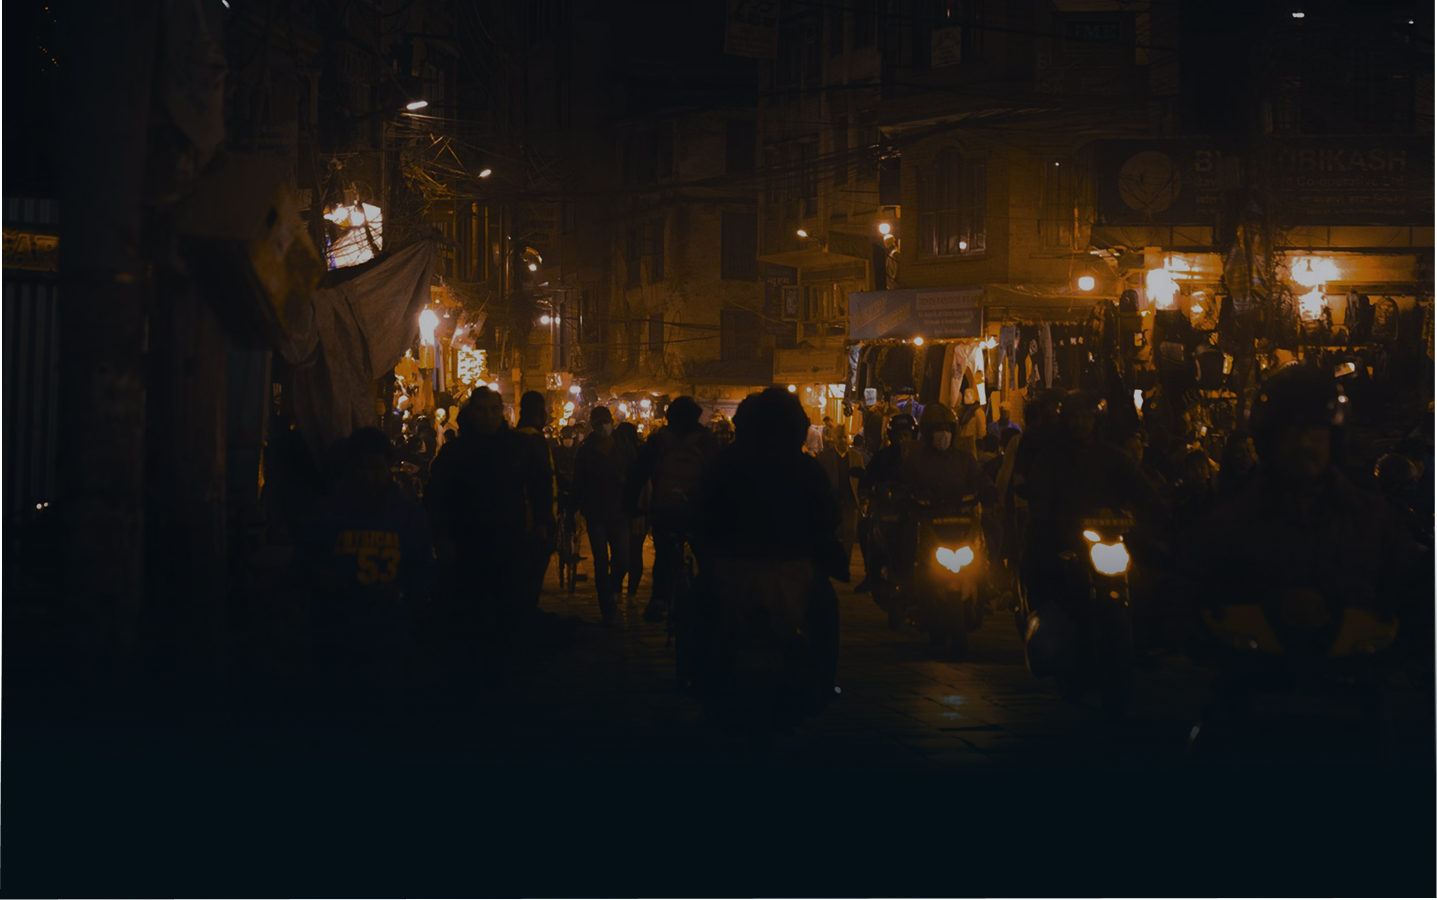
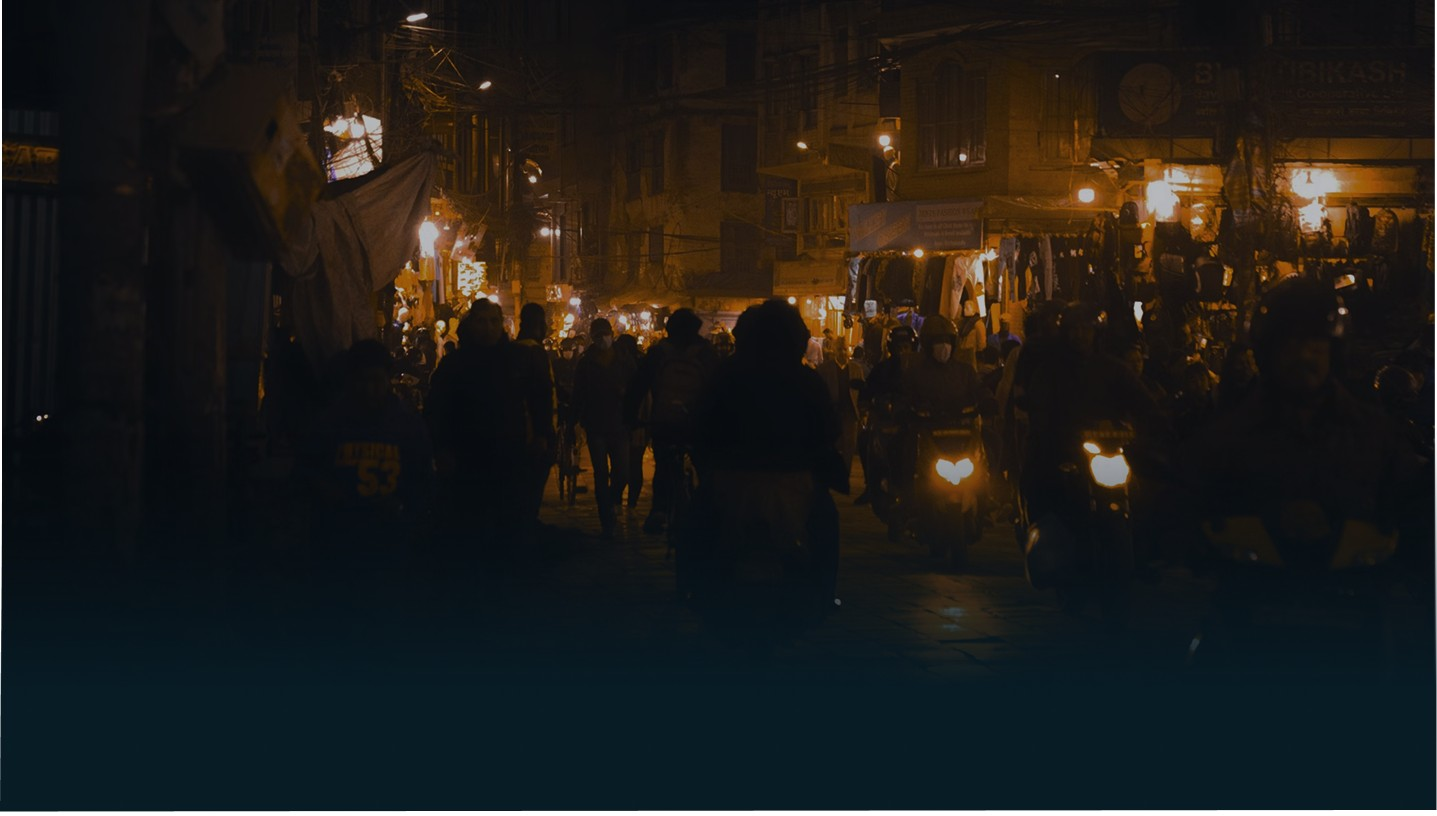
footer section doone

diff --git a/components/footer.tsx b/components/footer.tsx
@@ -1,0 +1,44 @@
+import React from 'react';
+import {
+  FaFacebookF,
+  FaInstagram,
+  FaTiktok,
+  FaYoutube,
+  FaXTwitter,
+  FaLinkedinIn,
+} from 'react-icons/fa6';
+
+const Footer = () => {
+  return (
+    <div className='bg-[#06141b] h-screen w-full relative'>
+      {/* Left bottom: contact info */}
+      <div className='absolute bottom-5 left-10 text-white'>
+        <p className='font-bold text-xl'>
+          GRIFFITY<span className='font-thin'>STUDIOS</span>
+        </p>
+        <div className='font-light'>
+          <p>Bhaisepati, Kathmandu</p>
+          <p>+977 9861292675</p>
+          <p>info@griffitystudios.com</p>
+        </div>
+      </div>
+
+      {/* Bottom right: social icons */}
+      <div className="absolute bottom-20 right-10 flex gap-4 text-xl text-white">
+        <FaFacebookF className="cursor-pointer" />
+        <FaInstagram className="cursor-pointer" />
+        <FaTiktok className="cursor-pointer" />
+        <FaYoutube className="cursor-pointer" />
+        <FaXTwitter className="cursor-pointer" />
+        <FaLinkedinIn className="cursor-pointer" />
+      </div>
+
+      {/* Bottom center: copyright */}
+      <div className="absolute bottom-4 left-1/2 transform -translate-x-1/2 font-light text-white text-l">
+        <p>© 2025 Griffity Studio Pvt. Ltd.</p>
+      </div>
+    </div>
+  );
+};
+
+export default Footer;

diff --git a/app/page.tsx b/app/page.tsx
@@ -1,11 +1,21 @@
 import React from 'react'
 import Hero from '../components/hero'
+import About from '@/components/about'
+import Services from '@/components/services'
+import Client from '@/components/clients'
+import Clientnumber from '@/components/clientnumbers'
+import Footer from '@/components/footer'
 
 
 const page = () => {
   return (
     <main>
       <Hero/>
+      <About/>
+      <Clientnumber/>
+      <Services/>
+      <Client/>
+      <Footer/>
     </main>
    
   )

diff --git a/components/hero.tsx b/components/hero.tsx
@@ -6,7 +6,7 @@ import { motion } from 'framer-motion';
 
 const Hero = () => {
   return (
-    <div className="relative bg-[url('/images/heroimage.jpg')] bg-cover bg-center h-screen w-full text-white overflow-hidden">
+<div className="relative  bg-[url('/images/heroimage.jpg')] bg-[center_top_-155px] bg-cover z-10 h-screen w-full text-white overflow-hidden">
 
      
       <div className="absolute inset-0 bg-black bg-opacity-30 z-0"></div>

diff --git a/components/clientnumbers.tsx b/components/clientnumbers.tsx
@@ -1,6 +1,6 @@
 import React from 'react'
 
-const About = () => {
+const Clientnumber = () => {
   return (
     <div className='bg-[#06141b] h-screen w-full justify-center items-center'>
 
@@ -13,4 +13,4 @@ const About = () => {
   )
 }
 
-export default About
+export default Clientnumber

diff --git a/components/services.tsx b/components/services.tsx
@@ -1,6 +1,6 @@
 import React from 'react'
 
-const About = () => {
+const Services = () => {
   return (
     <div className='bg-[#06141b] h-screen w-full justify-center items-center'>
 
@@ -13,4 +13,4 @@ const About = () => {
   )
 }
 
-export default About
+export default Services

diff --git a/components/clients.tsx b/components/clients.tsx
@@ -1,0 +1,16 @@
+import React from 'react'
+
+const Client = () => {
+  return (
+    <div className='bg-[#06141b] h-screen w-full justify-center items-center'>
+
+        <p>this is about page</p>
+
+        
+
+      
+    </div>
+  )
+}
+
+export default Client
